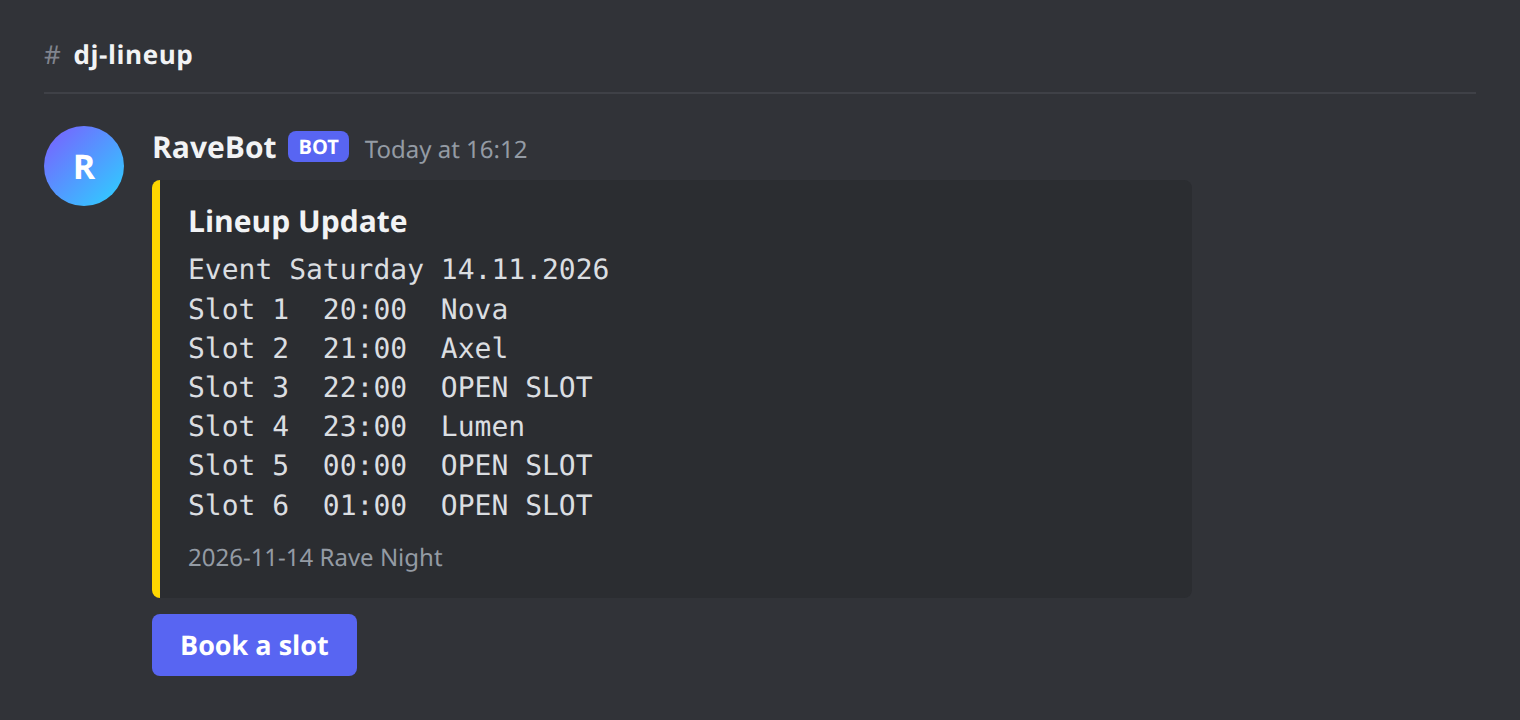
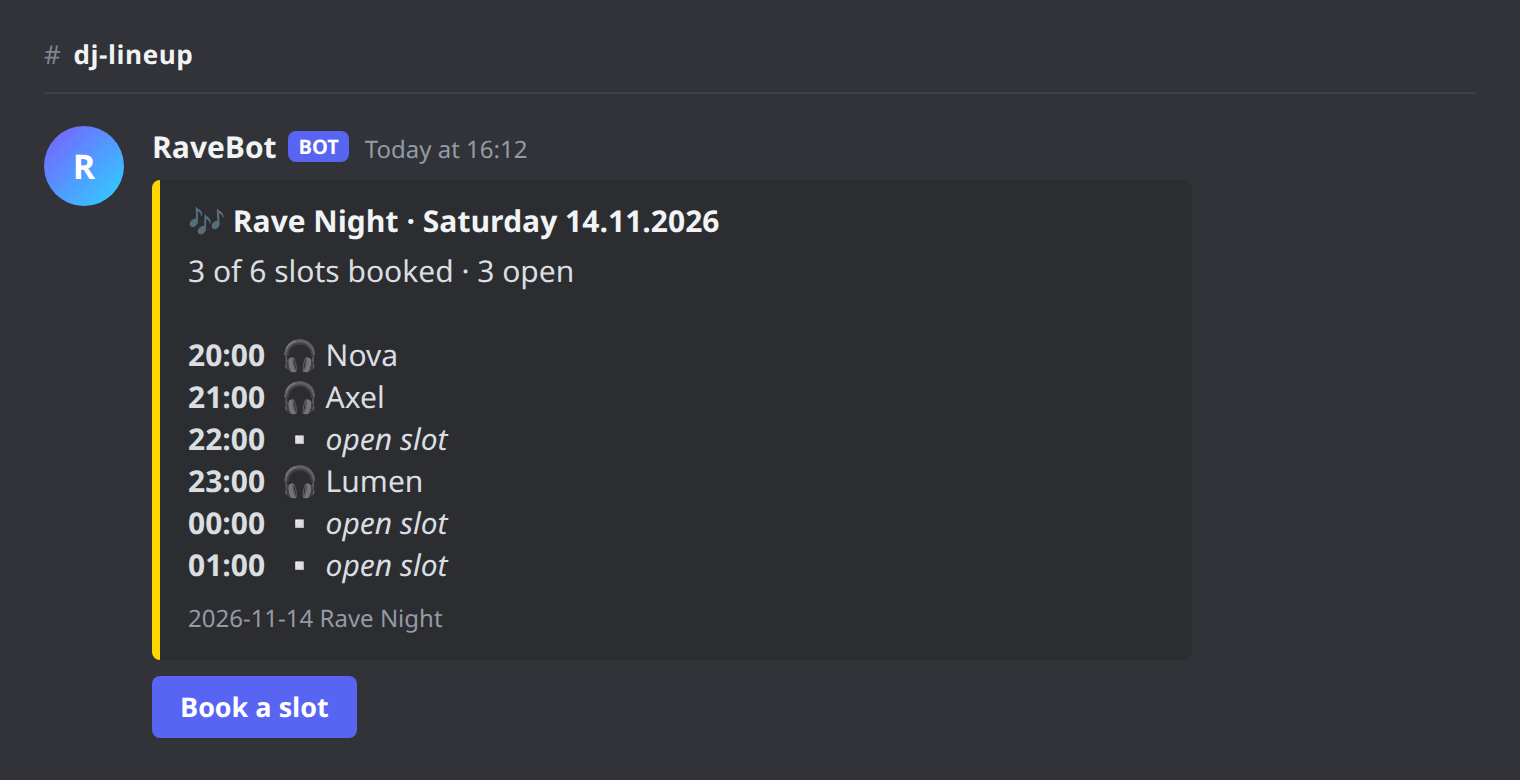
docs: re-render lineup and setup screenshots for the new design

diff --git a/docs/assets/src/setup.html b/docs/assets/src/setup.html
@@ -1,7 +1,7 @@
 <!doctype html><html><head><meta charset="utf-8"><link rel="stylesheet" href="discord.css"></head><body><div class="wrap">
 <div class="chan"><span>#</span>bot-setup</div>
 <div class="msg"><div class="av">R</div><div class="body"><div><span class="name">RaveBot</span><span class="tag">BOT</span><span class="time">Today at 17:40</span></div>
-<div class="embed gold"><div class="t">RaveBot setup</div><div class="d">I will guide you through 6 short steps. Until you press <b>Activate</b> at the end, I stay idle: no posts, no invites, no events.
+<div class="embed gold"><div class="t">RaveBot setup</div><div class="d">I will guide you through 13 short steps. Until you press <b>Activate</b> at the end, I stay idle: no posts, no invites, no events.
 
 <span class="mono">✓ Discord connection
 ✓ Database
@@ -9,7 +9,7 @@
 <div class="btns"><span class="btn">Start</span></div></div></div>
 
 <div class="msg"><div class="av">R</div><div class="body"><div><span class="name">RaveBot</span><span class="tag">BOT</span><span class="time">Today at 17:41</span></div>
-<div class="embed"><div class="t">Step 2 of 6: DJ channel</div><div class="d">Where should I post the Lineup Update and the "Book a slot" button?</div>
+<div class="embed"><div class="t">Step 2 of 13: DJ channel</div><div class="d">Where should I post the Lineup Update and the "Book a slot" button?</div>
 <div class="sel">#dj-lineup</div><div class="d mono" style="margin-top:8px">✓ I can send messages and embeds in #dj-lineup</div></div>
 <div class="btns"><span class="btn g">Back</span><span class="btn">Next</span></div></div></div>
 
@@ -17,7 +17,8 @@
 <div class="embed gold"><div class="t">Ready to activate</div><div class="d mono">DJ channel: #dj-lineup
 Log channel: #rave-log
 DJ role: @DJ · Invites role: @Active Booking
-Events: 6 slots, 20:00, 60 min, every 7 days, 6 ahead
+Events: 6 slots, 20:00 CET, 60 min
+Scheduled events: every 7 days from 2026-11-14, 6 ahead
 Time zone: Europe/Berlin
 Automatic invites: on, 14 days before, 12 h wait</div></div>
 <div class="btns"><span class="btn ok">Activate</span><span class="btn g">Back</span></div></div></div>

diff --git a/docs/assets/src/lineup.html b/docs/assets/src/lineup.html
@@ -1,12 +1,13 @@
 <!doctype html><html><head><meta charset="utf-8"><link rel="stylesheet" href="discord.css"></head><body><div class="wrap">
 <div class="chan"><span>#</span>dj-lineup</div>
 <div class="msg"><div class="av">R</div><div class="body"><div><span class="name">RaveBot</span><span class="tag">BOT</span><span class="time">Today at 16:12</span></div>
-<div class="embed gold"><div class="t">Lineup Update</div><div class="d mono">Event Saturday 14.11.2026
-Slot 1  20:00  Nova
-Slot 2  21:00  Axel
-Slot 3  22:00  OPEN SLOT
-Slot 4  23:00  Lumen
-Slot 5  00:00  OPEN SLOT
-Slot 6  01:00  OPEN SLOT</div><div class="f">2026-11-14 Rave Night</div></div>
+<div class="embed gold"><div class="t">🎶 Rave Night · Saturday 14.11.2026</div><div class="d">3 of 6 slots booked · 3 open
+
+<b>20:00</b>  🎧 Nova
+<b>21:00</b>  🎧 Axel
+<b>22:00</b>  ▫ <i>open slot</i>
+<b>23:00</b>  🎧 Lumen
+<b>00:00</b>  ▫ <i>open slot</i>
+<b>01:00</b>  ▫ <i>open slot</i></div><div class="f">2026-11-14 Rave Night</div></div>
 <div class="btns"><span class="btn">Book a slot</span></div></div></div>
 </div></body></html>
